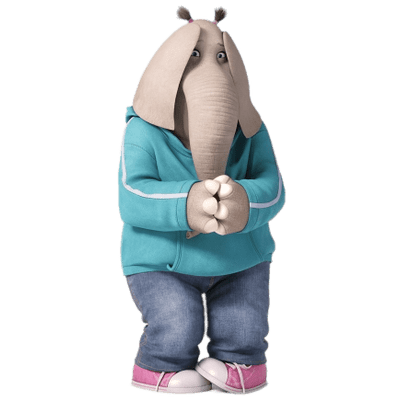
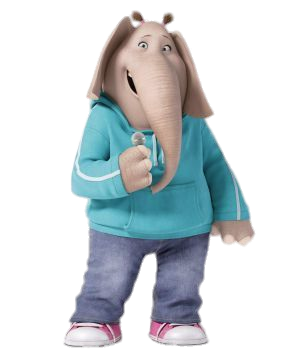
updated meena

diff --git a/src/components/cursor/index.js b/src/components/cursor/index.js
@@ -12,9 +12,15 @@ const Cursor = ({ active, x, y }) => {
   const top = y - 200;
   return (
     <img
-      src="sing.png"
+      src="meena.gif"
       className={`cursor ${show}`}
-      style={{ position: "relative", left: `${left}px`, top: `${top}px` }}
+      style={{
+        position: "relative",
+        width: "400px",
+        height: "400px",
+        left: `${left}px`,
+        top: `${top}px`,
+      }}
     />
   );
 };
